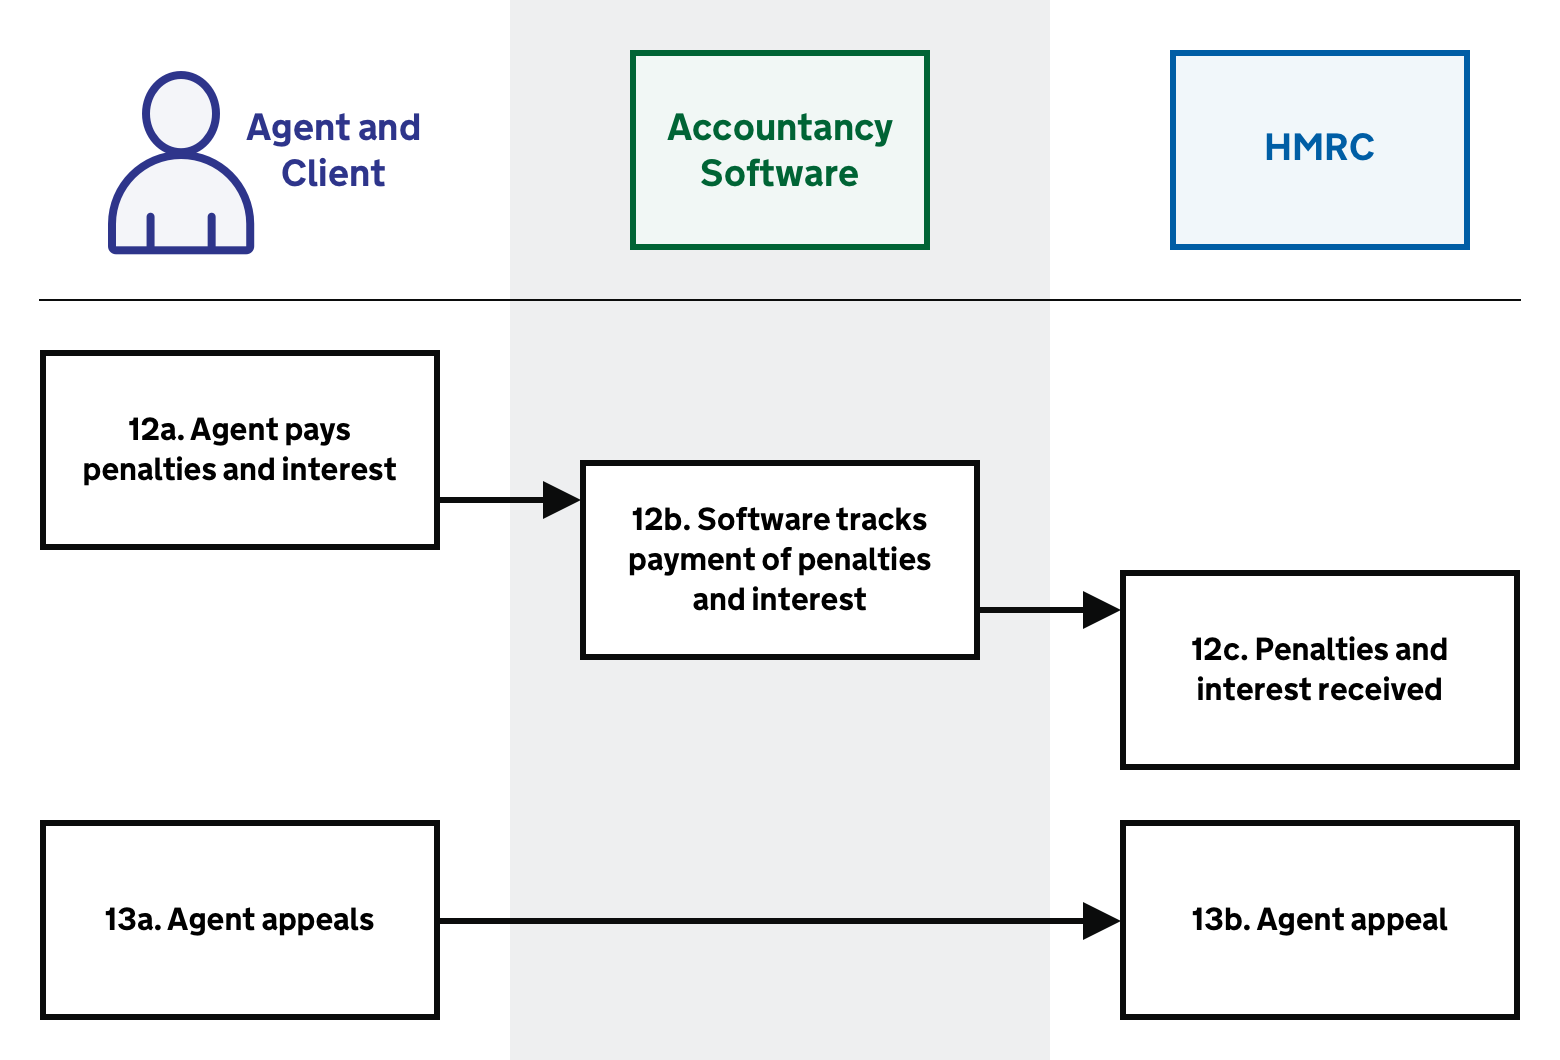
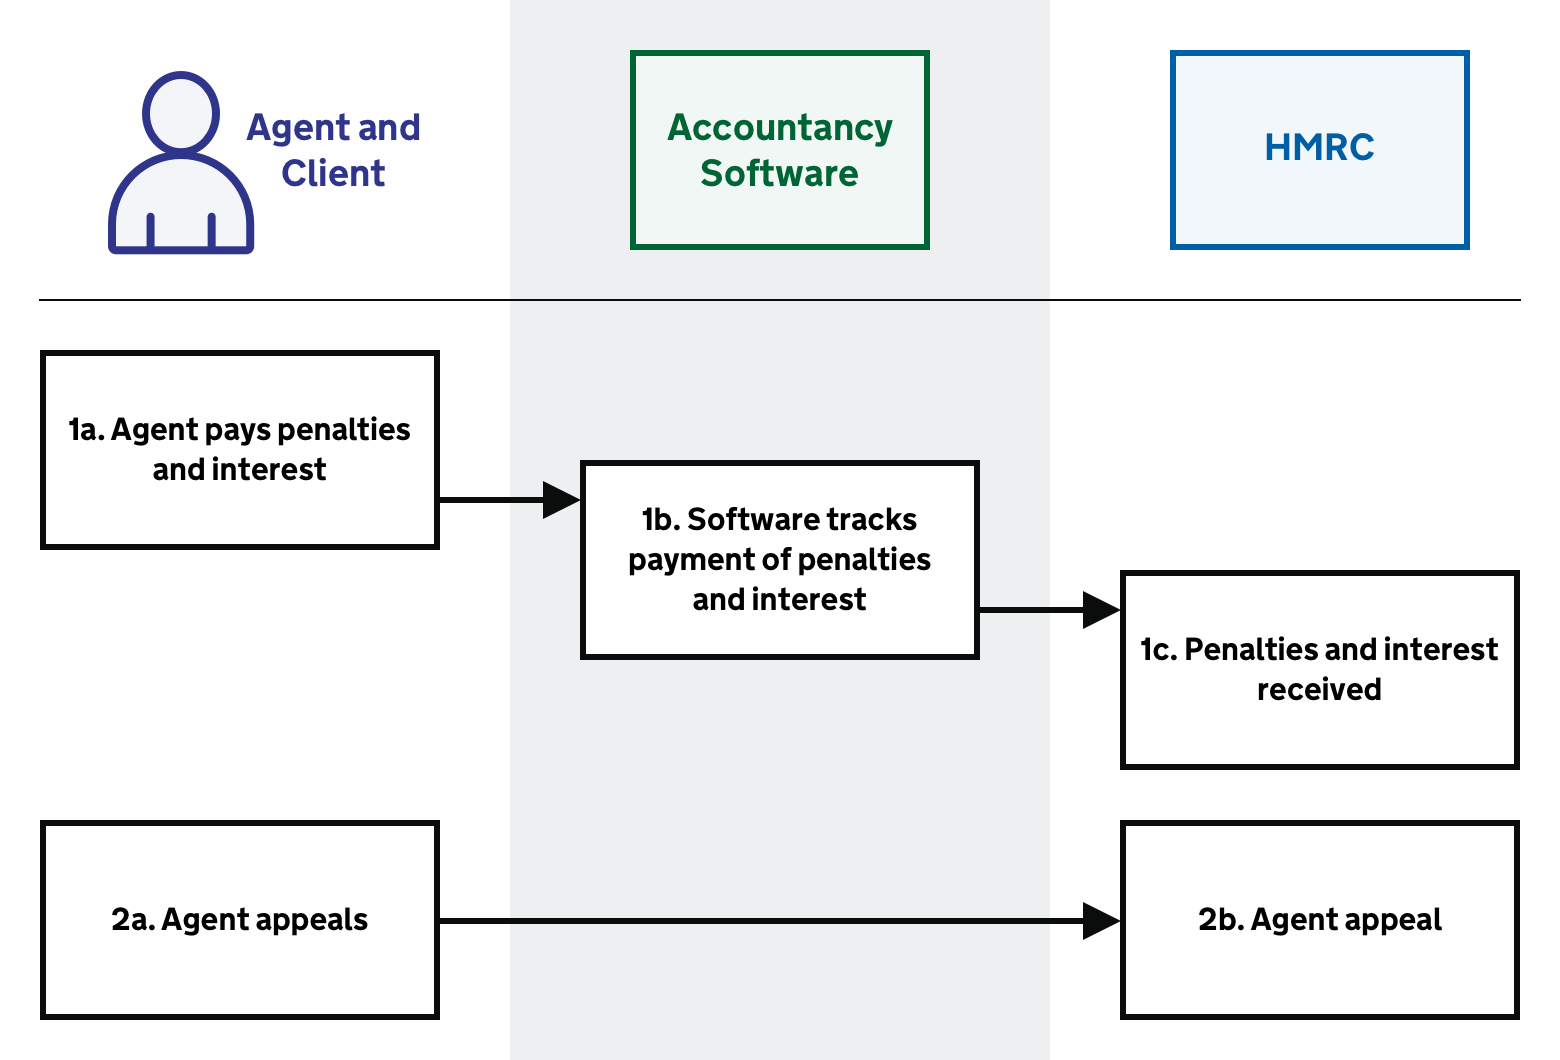
updated diagrams and accompanying text

diff --git a/source/documentation/set-up.html.md b/source/documentation/set-up.html.md
@@ -9,9 +9,9 @@ weight: 2
 Before agents can represent clients they must set up their relationships and software.
 
 <img src="figures/agent-start-up.png"
-alt="Agent start Up diagram" border="1px"; style="width:520px;" />
+alt="Agent start up process diagram" border="1px"; style="width:520px;" />
 
-<a href="figures/agent-start-up.png" target="blank">Open the diagram in a new tab</a>
+<a href="figures/agent-start-up.png" target="blank">Open the agent start up process diagram in a new tab</a>
 
 
 1. [Agent reads campaign pages and guidance](#read-campaign-pages-and-guidance)
@@ -26,9 +26,9 @@ alt="Agent start Up diagram" border="1px"; style="width:520px;" />
 Before businesses can submit VAT returns, they must register for VAT and set up their software.
 
 <img src="figures/business-start-up.png"
-alt="Business start up diagram" border="1px"; style="width:520px;" />
+alt="Business start up process diagram" border="1px"; style="width:520px;" />
 
-<a href="figures/business-start-up.png" target="blank">Open the diagram in a new tab</a>
+<a href="figures/business-start-up.png" target="blank">Open the business start up process diagram in a new tab</a>
 
 1. [Business reads campaign pages and guidance](#read-campaign-pages-and-guidance)
 2. [Business registers for MTDfB for VAT](#business-registers-for-vat-mtd)
@@ -69,9 +69,9 @@ The agent does this through their accounting software or from GOV.UK. The agent 
   * give information about the agency, which is held by us
   * receive an agent reference number, which is the number assigned to all their existing and new clients
 
-<img src="figures/agent-services-account.png" alt="Agent services account diagram" style="width:200px;" />
+<img src="figures/agent-services-account.png" alt="Agent services account process diagram" border="1px"; style="width:200px;" />
 
-<a href="figures/agent-services-account.png" target="blank">Open the diagram in a new tab</a>
+<a href="figures/agent-services-account.png" target="blank">Open the agent services account process diagram in a new tab</a>
 
 1. Agent creates a new Government Gateway ID which becomes the agency's new Government Gateway ID and password.
 2. Agent signs in to Government Gateway account with existing agent credentials
@@ -88,9 +88,9 @@ For Partnerships or a Limited Liability Partnerships you will need to use your P
 
 ### Link existing VAT clients
 
-<img src="figures/link-existing-vat-clients.png" alt="Link existing VAT clients diagram" style="width:500px;" />
+<img src="figures/link-existing-vat-clients.png" alt="Link existing VAT clients process diagram" border="1px"; style="width:500px;" />
 
-<a href="figures/link-existing-vat-clients.png" target="blank">Open the diagram in a new tab</a>
+<a href="figures/link-existing-vat-clients.png" target="blank">Open the link existing VAT clients process diagram in a new tab</a>
 
 1. Agent starts journey to to add existing clients
 2. Agent signs in to Government Gateway account with agent credentials for existing clients
@@ -127,9 +127,9 @@ To add a client:
 
 3. The agent is updated with the client's response. If the client accepts, we disclose the client's MTDfB-VAT data to their agent.
 
-<img src="figures/agent-links-new-vat.png" alt="Agent links new VAT clients diagram" style="width:500px;" />
+<img src="figures/agent-links-new-vat.png" alt="Agent links new VAT clients process diagram" border="1px"; style="width:500px;" />
 
-<a href="figures/agent-links-new-vat.png" target="blank">Open the diagram in a new tab</a>
+<a href="figures/agent-links-new-vat.png" target="blank">Open the agent links new VAT clients process diagram in a new tab</a>
 
 <ol>
   <li>Agent signs into agent services account</li>
@@ -145,9 +145,9 @@ To add a client:
 
 ## Agent registers client for VAT (MTD)
 
-<img src="figures/agents-sign-up.png" alt="Agent sign up diagram" style="width:400px;" />
+<img src="figures/agents-sign-up.png" alt="Agent sign up process diagram" border="1px"; style="width:400px;" />
 
-<a href="figures/agents-sign-up.png" target="blank">Open the diagram in a new tab</a>
+<a href="figures/agents-sign-up.png" target="blank">Open the agent registers client for VAT process diagram in a new tab</a>
 
 1. Agent signs in to Government Gateway account
 2. Agent confirms VRN of client
@@ -178,9 +178,9 @@ We will enable customers to register and sign up through GOV.UK. Software develo
 
 ### Sole trader and limited company can sign up
 
-<img src="figures/business-registers-vat.png" alt="Business registers for VAT diagram" style="width:500px;" />
+<img src="figures/business-registers-vat.png" alt="Business registers for VAT process diagram" border="1px"; style="width:500px;" />
 
-<a href="figures/business-registers-vat.png" target="blank">Open the diagram in a new tab</a>
+<a href="figures/business-registers-vat.png" target="blank">Open the business registers for VAT process diagram in a new tab</a>
 
 1. Business signs in to Government Gateway account
 2. Business confirms VRN
@@ -211,9 +211,9 @@ This is a very early draft of what the software choices page may look like in th
 
 ## Link software to HMRC
 
-<img src="figures/links-software.png" alt="Links software diagram" style="width:320px;" />
+<img src="figures/links-software.png" alt="Links software to HMRC process diagram" border="1px"; style="width:320px;" />
 
-<a href="figures/links-software.png" target="blank">Open the diagram in a new tab</a>
+<a href="figures/links-software.png" target="blank">Open the links software to HMRC process diagram in a new tab</a>
 
 1. Third party software takes the business or the agent to the authorisation endpoint
 2. Business or agent views grant authority start page for an overview of the process before starting

diff --git a/old/process-steps.html.md b/old/process-steps.html.md
@@ -32,7 +32,7 @@ The agent does this through their accounting software or from GOV.UK. The agent 
   * give information about the agency, which is held by us
   * receive an agent reference number, which is the number assigned to all their existing and new clients
 
-<img src="figures/agent-services-account.png" alt="Agent services account diagram" style="width:200px;" />
+<img src="figures/agent-services-account.png" alt="Agent services account process diagram" style="width:200px;" />
 
 1. Agent creates a new Government Gateway ID which becomes the agency's new Government Gateway ID and password.
 2. Agent signs in to Government Gateway account with existing agent credentials
@@ -96,7 +96,7 @@ To add a client:
 
 ## Register client for VAT (MTD)
 
-<img src="figures/agents-sign-up.png" alt="Agent sign up diagram" style="width:400px;" />
+<img src="figures/agents-sign-up.png" alt="Agent sign up process diagram" style="width:400px;" />
 
 In April 2018 we delivered the sign-up service that enables existing VAT businesses to move to the VAT (MTD) service. A business that  wants to use VAT (MTD) must sign up before first use, even if they have already signed up for MTD for income tax.
 Agents can sign up an existing client’s business. However, the creation of the agent account which is a one-off process must be completed to enable an agency to sign up their clients.
@@ -174,7 +174,7 @@ This is a very early draft of what the software choices page may look like in th
 
 ## Link software to HMRC
 
-<img src="figures/links-software.png" alt="Links software diagram" style="width:320px;" />
+<img src="figures/links-software.png" alt="Links software process diagram" style="width:320px;" />
 
 1. Third party software takes the business or the agent to the authorisation endpoint
 2. Business or agent views grant authority start page for an overview of the process before starting
@@ -197,7 +197,7 @@ This step uses the [VAT (MTD) API](https://docs.google.com/document/d/1B5eOxmIu8
   * [Retrieve VAT obligations](https://www.qa.tax.service.gov.uk/api-documentation/docs/api/service/vat-api/1.0#_retrieve-vat-obligations_get_accordion)
   * [Submit VAT return for period](https://www.qa.tax.service.gov.uk/api-documentation/docs/api/service/vat-api/1.0#_submit-vat-return-for-period_post_accordion)
 
-<img src="figures/retrieve-obligations.png" alt="Retrieve obligations diagram" style="width:680px;" />
+<img src="figures/retrieve-obligations.png" alt="Retrieve obligations process diagram" style="width:680px;" />
 
 1. Business or agent uses their software to retrieve VAT obligations using the [VAT (MTD) API retrieve VAT obligations endpoint](https://www.qa.tax.service.gov.uk/api-documentation/docs/api/service/vat-api/1.0#_retrieve-vat-obligations_get_accordion).
 2. Business or agent uses their software to submit a VAT return using the VAT (MTD) API submit VAT return for period endpoint.
@@ -366,7 +366,7 @@ In time the manual process will be replaced by a digital process.
 
 Client only de-authorisation
 
-### Insert diagram
+### Insert process diagram
 
 1. Client signs in to Government Gateway account
 2. Client manages their tax agents

diff --git a/source/documentation/obligations.html.md b/source/documentation/obligations.html.md
@@ -7,9 +7,9 @@ weight: 3
 Agents who have set up their clients for VAT (MTD) can submit their clients' VAT returns.
 
 <a href="figures/agent-active.png" target="blank"><img src="figures/agent-active.png"
-alt="Agent active diagram" border="1px"; style="width:100px;" /></a>
+alt="Agent active process diagram" border="1px"; style="width:100px;" /></a>
 
-<a href="figures/agent-active.png" target="blank">Open the agent process flow diagram for obligations and returns in a new tab</a>
+<a href="figures/agent-active.png" target="blank">Open the agent process flow process diagram for obligations and returns in a new tab</a>
 
 1. [Agent receives obligations and submits VAT return](#retrieve-obligations-and-submit-vat-return)
 2. [Agent amends VAT return](#amend-vat-return)
@@ -21,9 +21,9 @@ alt="Agent active diagram" border="1px"; style="width:100px;" /></a>
 Businesses set up for VAT (MTD) can submit VAT returns.
 
 <a href="figures/business-active.png" target="blank"><img src="figures/business-active.png"
-alt="Business active diagram" border="1px"; style="width:100px;" /></a>
+alt="Business active process diagram" border="1px"; style="width:100px;" /></a>
 
-<a href="figures/business-active.png" target="blank">Open the business process flow diagram for obligations and returns in a new tab</a>
+<a href="figures/business-active.png" target="blank">Open the business process flow process diagram for obligations and returns in a new tab</a>
 
 1. [Business receives obligations and submits VAT return](#retrieve-obligations-and-submit-vat-return)
 2. [Business amends VAT return](#amend-vat-return)
@@ -38,9 +38,9 @@ This step uses the [VAT (MTD) API](https://docs.google.com/document/d/1B5eOxmIu8
   * [Retrieve VAT obligations](https://www.qa.tax.service.gov.uk/api-documentation/docs/api/service/vat-api/1.0#_retrieve-vat-obligations_get_accordion)
   * [Submit VAT return for period](https://www.qa.tax.service.gov.uk/api-documentation/docs/api/service/vat-api/1.0#_submit-vat-return-for-period_post_accordion)
 
-<img src="figures/retrieve-obligations.png" alt="Retrieve obligations diagram" style="width:680px;" />
+<img src="figures/retrieve-obligations.png" alt="Retrieve obligations process diagram" border="1px"; style="width:680px;" />
 
-<a href="figures/retrieve-obligations.png" target="blank">Open the retrieve VAT obligations diagram in a new tab</a>
+<a href="figures/retrieve-obligations.png" target="blank">Open the retrieve VAT obligations process diagram in a new tab</a>
 
 1. Business or agent uses their software to retrieve VAT obligations using the [VAT (MTD) API retrieve VAT obligations endpoint](https://www.qa.tax.service.gov.uk/api-documentation/docs/api/service/vat-api/1.0#_retrieve-vat-obligations_get_accordion).
 2. Business or agent uses their software to submit a VAT return using the VAT (MTD) API submit VAT return for period endpoint.

diff --git a/source/documentation/penalties.html.md b/source/documentation/penalties.html.md
@@ -7,9 +7,9 @@ weight: 4
 Agents can also represent their clients during penalty and interest payments as well as appeals.
 
 <img src="figures/agent-penalties.png"
-alt="Agent penalties diagram" border="1px"; style="width:520px;" />
+alt="Agent penalties process diagram" border="1px"; style="width:520px;" />
 
-<a href="figures/agent-penalties.png" target="blank">Open the diagram in a new tab</a>
+<a href="figures/agent-penalties.png" target="blank">Open the agent penalties process diagram in a new tab</a>
 
 <ol start="12">
   <li><a href="#pay-penalties-and-interest">Client pays penalties and interest</a></li>
@@ -19,9 +19,9 @@ alt="Agent penalties diagram" border="1px"; style="width:520px;" />
 The business journey for penalty and interest payments and appeals.
 
 <img src="figures/business-penalties.png"
-alt="Business penalties and appeals diagram" border="1px"; style="width:520px;" />
+alt="Business penalties and appeals process diagram" border="1px"; style="width:520px;" />
 
-<a href="figures/business-penalties.png" target="blank">Open the diagram in a new tab</a>
+<a href="figures/business-penalties.png" target="blank">Open the business penalties process diagram in a new tab</a>
 
 <ol start="10">
   <li><a href="#pay-penalties-and-interest">Business pays penalties and interest</a></li>

diff --git a/source/documentation/closedown.html.md b/source/documentation/closedown.html.md
@@ -7,9 +7,9 @@ weight: 5
 Agent to client relationships can come to an end or agents can go out of business.
 
 <img src="figures/agent-closedown.png"
-alt="Agent closedown diagram" border="1px"; style="width:520px;" />
+alt="Agent closedown process diagram" border="1px"; style="width:520px;" />
 
-<a href="figures/agent-closedown.png" target="blank">Open the diagram in a new tab</a>
+<a href="figures/agent-closedown.png" target="blank">Open the agent closedown process diagram in a new tab</a>
 
 <ol start="14">
   <li><a href="#unsubscribe-client-from-vat-mtd">Agent unsubscribes client from MTD</a></li>
@@ -20,9 +20,9 @@ alt="Agent closedown diagram" border="1px"; style="width:520px;" />
 Businesses may choose to unsubscribe from VAT MTD.
 
 <img src="figures/business-closedown.png"
-alt="Business closedown diagram" border="1px"; style="width:520px;" />
+alt="Business closedown process diagram" border="1px"; style="width:520px;" />
 
-<a href="figures/business-closedown.png" target="blank">Open the diagram in a new tab</a>
+<a href="figures/business-closedown.png" target="blank">Open the business closedown process diagram in a new tab</a>
 
 <ol start="12">
   <li><a href="#unsubscribe-client-from-vat-mtd">Business unsubscribes from MTD</a></li>

diff --git a/old/agent-journey.html.md b/old/agent-journey.html.md
@@ -24,27 +24,27 @@
 Before agents can represent clients they must set up their relationships and software.
 
 <img src="figures/agent-start-up.png"
-alt="Agent start Up diagram" border="1px"; style="width:520px;" />
+alt="Agent start Up process diagram" border="1px"; style="width:520px;" />
 
 ## Active
 
 Agents with active client relationships can represent them.
 
 <img src="figures/agent-active.png"
-alt="Agent active diagram" border="1px"; style="width:520px;" />
+alt="Agent active process diagram" border="1px"; style="width:520px;" />
 
 ## Penalties and appeals
 
 Agents can also represent their clients during penalty and interest payments as well as appeals.
 
 <img src="figures/agent-penalties.png"
-alt="Agent penalties diagram" border="1px"; style="width:520px;" />
+alt="Agent penalties process diagram" border="1px"; style="width:520px;" />
 
 ## Closedown
 
 Agent to client relationships can come to an end or agents can go out of business.
 
 <img src="figures/agent-closedown.png"
-alt="Agent closedown diagram" border="1px"; style="width:520px;" />
+alt="Agent closedown process diagram" border="1px"; style="width:520px;" />
 
 [View the full End-to-end agent journey as a numbered list](#agent-journey)

diff --git a/old/business-journey.html.md b/old/business-journey.html.md
@@ -20,27 +20,27 @@
 Before businesses can submit VAT returns, they must register for VAT and set up their software.
 
 <img src="figures/business-start-up.png"
-alt="Business start up diagram" border="1px"; style="width:520px;" />
+alt="Business start up process diagram" border="1px"; style="width:520px;" />
 
 ## Active
 
 The business journey for active businesses.
 
 <img src="figures/business-active.png"
-alt="Business active diagram" border="1px"; style="width:520px;" />
+alt="Business active process diagram" border="1px"; style="width:520px;" />
 
 ## Penalties and appeals
 
 The business journey for penalty and interest payments and appeals.
 
 <img src="figures/business-penalties.png"
-alt="Business penalties and appeals diagram" border="1px"; style="width:520px;" />
+alt="Business penalties and appeals process diagram" border="1px"; style="width:520px;" />
 
 ## Closedown
 
 Businesses may choose to unsubscribe from VAT MTD.
 
 <img src="figures/business-closedown.png"
-alt="Business closedown diagram" border="1px"; style="width:520px;" />
+alt="Business closedown process diagram" border="1px"; style="width:520px;" />
 
 [View the full End-to-end business journey as a numbered list](#business-journey)

diff --git a/source/documentation/index.md b/source/documentation/index.md
@@ -48,7 +48,7 @@ Description | Date
  --- | ---
 **VAT (MTD) End-to-end Service Guide v1.0** | **Oct 2018**
 Document name changed |
-Developer Hub hosted HTML version with diagrams replaces PDF version V4.0 |
+Developer Hub hosted HTML version with process diagrams replaces PDF version V4.0 |
 **Making Tax Digital (MTD)-VAT End-to-End (E2E) Customer Journeys v4.0** | **Sep 2018**
 Document name changed |
 PDF version includes placeholder information for post CGL features |
@@ -59,9 +59,9 @@ Adds timeline of feature delivery on journey |
 **MTDfB-Income Tax E2E customer journeys v1.0** | **Feb 2018**
 Document name changed |
 Standalone PDF replaces HTML after Sandbox merge with Developer Hub |
-Adds End-to-end journey diagram |
+Adds End-to-end journey process diagram |
 Adds Vision and High Level Design |
 **Making Tax Digital for Business VAT Guide for Vendors Version v1.0** | **Jun 2017**
 HTML version hosted on Developer Hub Sandbox |
-Adds diagrams to explain agent flow |
+Adds process diagrams to explain agent flow |
 Adds glossary of terms |
